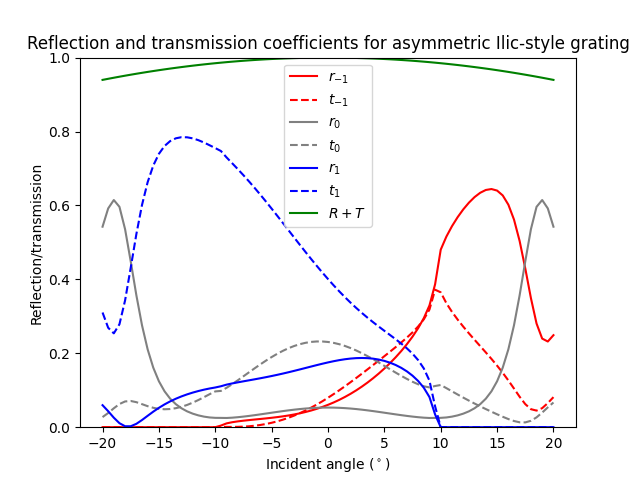
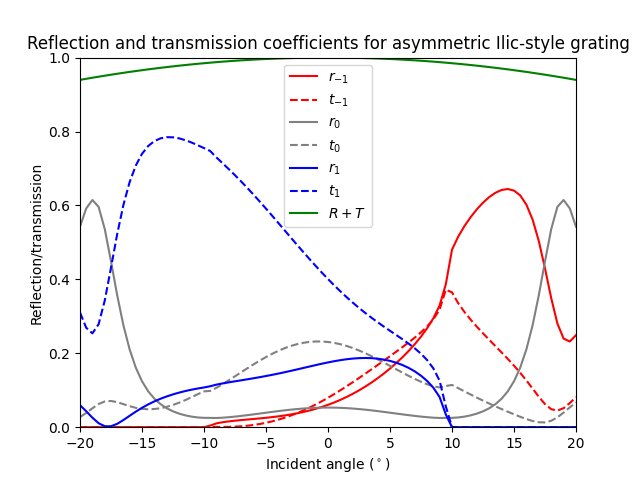
Documented a bit of exp_simu.py, worked on GRCWA

diff --git a/meep/exp_simu.py b/meep/exp_simu.py
@@ -1,0 +1,186 @@
+import meep as mp
+import math
+import numpy as np
+import cmath
+import matplotlib.pyplot as plt
+
+'''
+MEEP uses FDTD (finite-difference-time-domain) to numerically evaluate Maxwell's equations. This file uses MEEP to evaluate
+Maxwell's equations for a diffraction grating which extends infinitely.
+'''
+
+resolution = 50  # pixels/um
+
+dpml = 0.1  # PML thickness
+sz = 1.8 + 2 * dpml
+cell_size = mp.Vector3(x = sz, z=sz)
+pml_layers = [mp.PML(thickness=dpml,direction=mp.Z,side=mp.High),
+              mp.PML(thickness=dpml,direction=mp.Z,side=mp.Low)]
+
+wvl_min = 0.4  # min wavelength
+wvl_max = 0.8 # max wavelength
+fmin = 1 / wvl_max  # min frequency
+fmax = 1 / wvl_min  # max frequency
+fcen = 0.5 * (fmin + fmax)  # center frequency
+df = fmax - fmin  # frequency width
+nfreq = 50  # number of frequency bins
+
+
+'''
+The goal of this document is to replicate the results in Ilic & Atwater (2019) Fig. 2b.
+This paper looks at a metasurface where the unit cell consists of two optical resonators
+of subwavelength thickness. The side-view looks like
+
+     w_1      w_2
+  <------>   <--->
+   ____     ______               ^ z
+  |    |   |      |              |
+__|    |___|      |___           X-----> x
+-----|---------|----->            y
+    x_1       x_2
+
+<----- d ----->
+
+The resonators are made of silicon, while the substrate is SiO2 (silicon dioxide). The
+height of both the resonators and the substrate is 0.5 microns. Ilic & Atwater use
+d = 1.8 microns; x_1 = 0.25d; x_2 = 0.85d; w_1 = 0.35d; w_2 = 0.15d. 
+
+They also assume an incident plane wave beam of wavelength 1.5 microns. Note that natural units
+measure distance in units of the Bohr radius. 
+'''
+# define parameters
+d = 1.8
+x1 = 0.25 * d
+x2 = 0.75 * d
+w1 = 0.15 * d
+w2 = 0.35 * d
+t = 0.5
+h = 0.5
+epsi_Si = 3.5**2
+epsi_SiO2 = 1.45**2
+wl = 1.5
+silicon = 'silicon'
+sio2 = 'SiO2'
+
+#deal with y
+custom = 0
+offset = 0
+
+def pw_amp(k,x0):
+  def _pw_amp(x):
+    return cmath.exp(1j*2*math.pi*k.dot(x+x0))
+  return _pw_amp
+
+def planar_reflectance(theta):
+    # rotation angle (in degrees) of source: CCW around Y axis, 0 degrees along +Z axis
+    theta_r = math.radians(theta)
+
+    # plane of incidence is XZ; rotate counter clockwise (CCW) about y-axis
+    k = mp.Vector3(z=1/1.5).rotate(mp.Vector3(y=1), theta_r)
+    print(k)
+
+    # if normal incidence, force number of dimensions to be 1
+    if theta_r == 0:
+        dimensions = 1
+    else:
+        dimensions = 3
+
+    use_cw_solver = False  # CW solver or time stepping?
+
+    src_pt = mp.Vector3(-0.5*sz+dpml+0.3*t,0,-sz/2)
+    sources = [mp.Source(mp.ContinuousSource(fcen,fwidth=df) if use_cw_solver else mp.GaussianSource(fcen,fwidth=df),
+                        component=mp.Ex,
+                        center=src_pt,
+                        size=mp.Vector3(0,0,sz),
+                        amp_func=pw_amp(k,src_pt))]
+
+    sim = mp.Simulation(
+        cell_size=cell_size,
+        boundary_layers=pml_layers,
+        sources=sources,
+        k_point=k,
+        dimensions=dimensions,
+        resolution=resolution,
+    )
+
+    #where the light firstly touches a surface
+    refl_fr = mp.FluxRegion(center=mp.Vector3(z= offset - h/2), size = mp.Vector3(d, 0, 0), direction = mp.Z)
+    refl = sim.add_flux(fcen, df, nfreq, refl_fr)
+
+    sim.run(
+        until_after_sources=mp.stop_when_fields_decayed(
+            50, mp.Ex, mp.Vector3(z=-0.5 * sz + dpml), 1e-9
+        )
+    )
+
+    empty_flux = mp.get_fluxes(refl)
+    empty_data = sim.get_flux_data(refl)
+
+    sim.reset_meep()
+
+    geometry = [mp.Block(mp.Vector3(w1, custom, h),
+                    center=mp.Vector3(x1 - sz/2, 0, offset),
+                    material=mp.Medium(epsilon=epsi_Si)),
+            mp.Block(mp.Vector3(w2, custom, h),
+                    center=mp.Vector3(x2 - sz/2, 0, offset),
+                    material=mp.Medium(epsilon=epsi_Si)),
+            mp.Block(mp.Vector3(mp.inf, custom, h),
+                    center=mp.Vector3(0, 0, offset + h),
+                    material=mp.Medium(epsilon=epsi_SiO2))]
+
+    sim = mp.Simulation(
+        cell_size=cell_size,
+        geometry=geometry,
+        boundary_layers=pml_layers,
+        sources=sources,
+        k_point=k,
+        dimensions=dimensions,
+        resolution=resolution,
+    )
+
+    plt.figure(dpi=100)
+    sim.plot2D()
+    plt.savefig('visual')
+
+    sim.plot2D(fields=mp.Ex)
+    plt.savefig('visual_field')
+    
+    refl = sim.add_flux(fcen, df, nfreq, refl_fr)
+    sim.load_minus_flux_data(refl, empty_data)
+
+    sim.run(
+        until_after_sources=mp.stop_when_fields_decayed(
+            50, mp.Ex, mp.Vector3(z=-0.5 * sz + dpml), 1e-9
+        )
+    )
+
+    refl_flux = mp.get_fluxes(refl)
+    freqs = mp.get_flux_freqs(refl)
+
+    wvls = np.empty(nfreq)
+    theta_out = np.empty(nfreq)
+    R = np.empty(nfreq)
+    for i in range(nfreq):
+        wvls[i] = 1 / freqs[i]
+        theta_out[i] = math.degrees(math.asin(k.x / freqs[i]))
+        R[i] = -refl_flux[i] / empty_flux[i]
+        print("refl:, {}, {}, {}, {}, {}".format(k.x, wvls[i], theta, theta_out[i], R[i]))
+
+    return k.x * np.ones(nfreq), wvls, theta_out, R
+
+theta_in = np.arange(-20,21,5)
+wvl = np.empty(nfreq)
+kxs = np.empty((nfreq, theta_in.size))
+thetas = np.empty((nfreq, theta_in.size))
+Rmeep = np.empty((nfreq, theta_in.size))
+
+for j in range(theta_in.size):
+    kxs[:, j], wvl, thetas[:, j], Rmeep[:, j] = planar_reflectance(theta_in[j])
+
+# create a 2d matrix for the wavelength by repeating the column vector for each angle
+wvls = np.transpose(np.matlib.repmat(wvl, theta_in.size, 1))
+
+plt.plot(theta_in, Rmeep[int(nfreq/1.5)], label = 'meep')
+plt.xlabel('thetas')
+plt.ylabel('reflectance')
+plt.savefig('attempt1')

diff --git a/grcwa/ilic_replication/ilic_GRCWA_rtmodes_conservation.py b/grcwa/ilic_replication/ilic_GRCWA_rtmodes_conservation.py
@@ -17,9 +17,9 @@ of subwavelength thickness. The side-view looks like
 
      w_1      w_2
   <------>   <--->
-   ______     ____               ^ z
-  |      |   |    |              |
-__|      |___|    |___           X-----> x
+   ____     ______               ^ z
+  |    |   |      |              |
+__|    |___|      |___           X-----> x
 -----|---------|----->            y
     x_1       x_2
 
@@ -27,7 +27,7 @@ __|      |___|    |___           X-----> x
 
 The resonators are made of silicon, while the substrate is SiO2 (silicon dioxide). The
 height of both the resonators and the substrate is 0.5 microns. Ilic & Atwater use
-d = 1.8 microns; x_1 = 0.25d; x_2 = 0.85d; w_1 = 0.15d; w_2 = 0.35d. 
+d = 1.8 microns; x_1 = 0.25d; x_2 = 0.85d; w_1 = 0.35d; w_2 = 0.15d. 
 
 They also assume an incident beam of lambda = 1.5 microns. Note that natural units
 measure distance in units of the Bohr radius. 
@@ -35,10 +35,10 @@ measure distance in units of the Bohr radius.
 # Defining Ilic dimensions
 d = 1.8  # unit cell width
 dy = 1e-4
-x1 = 0.85*d # positions of blocks in unit cell
-x2 = 0.25*d 
-w1 = 0.15*d # width of blocks in unit cell
-w2 = 0.35*d
+x1 = 0.25*d # positions of blocks in unit cell
+x2 = 0.85*d 
+w1 = 0.35*d # width of blocks in unit cell
+w2 = 0.15*d
 
 h = 0.5  # thickness of resonator layer
 t = 0.5  # also equal to thickness of substrate layer
@@ -170,7 +170,7 @@ plt.title("Reflection and transmission coefficients for asymmetric Ilic-style gr
 plt.ylim([0,1.])
 plt.xlim([-20,20])
 
-plt.savefig('ISB B/grcwa/ilic_replication/figs/ilic_GRCWA_rtmodes__conservation_nG{}'.format(nG))
+plt.savefig('grcwa/ilic_replication/figs/ilic_GRCWA_rtmodes__conservation_nG{}'.format(nG))
 plt.show()
 
 
